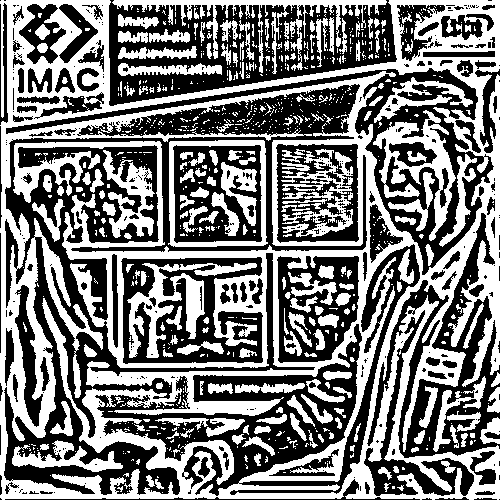
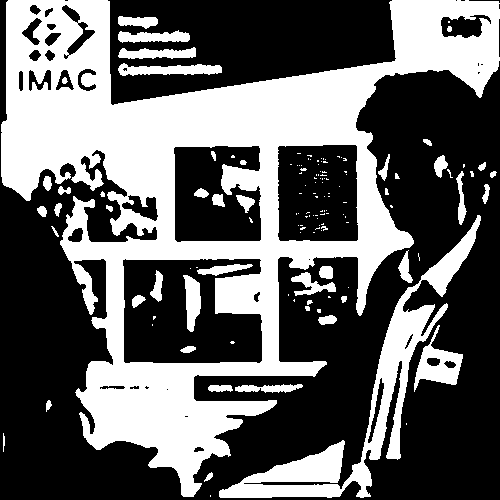
rajout de TAU dans la diff gaussienne

diff --git a/src/function/diff_gaussien.cpp b/src/function/diff_gaussien.cpp
@@ -10,10 +10,10 @@ void diff_gaussien(sil::Image gaussien_leger, sil::Image gaussien_hard)
         for (int y{0}; y < gaussien_leger.height(); y++)
         {
             glm::vec3 pixel(final.pixel(x, y));
-            
-            final.pixel(x, y) = gaussien_leger.pixel(x, y) - gaussien_hard.pixel(x, y);
+            float tau{0.55};
+            final.pixel(x, y) = (1 + tau) * gaussien_leger.pixel(x, y) - tau * gaussien_hard.pixel(x, y);
 
-            if (((final.pixel(x, y).r + final.pixel(x, y).g + final.pixel(x, y).b) / 3) > 0.f)
+            if (((final.pixel(x, y).r + final.pixel(x, y).g + final.pixel(x, y).b) / 3) >= 0.5f)
             {
                 final.pixel(x, y).r = 1.f;
                 final.pixel(x, y).g = 1.f;

diff --git a/src/function/gaussiens.cpp b/src/function/gaussiens.cpp
@@ -19,7 +19,7 @@ void gaussiens(sil::Image image)
             {
                 for (int j{-kernel}; j <= kernel; j++)
                 {
-                    if ((x + i) >= image.width() || (x + i) <= 0 || (y + j) >= image.height() || (y + j) <= 0)
+                    if ((x + i) >= image.width() || (x + i) <= 0 || (y + j) >= image.height() || (y + j) <= 0.5)
                     {
                         count += 1;
                     }
@@ -35,7 +35,7 @@ void gaussiens(sil::Image image)
         }
     }
 
-    kernel = 5;
+    kernel = 10;
 
     for (int x{0}; x < image.width(); x++)
     {

diff --git a/src/main.cpp b/src/main.cpp
@@ -30,7 +30,7 @@ int main()
     // vortex(logo);
     // dithering(photo);
     // // normalisation(photo);
-    convolution(logo);
+    // convolution(logo);
     // convolution(logo);
     // emboss(logo);
     // outline(logo);
